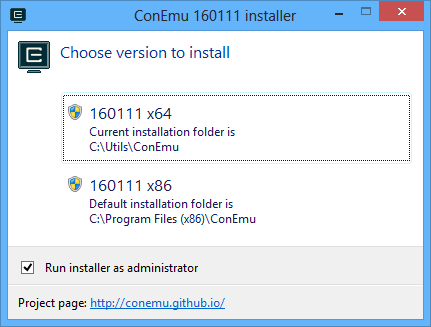
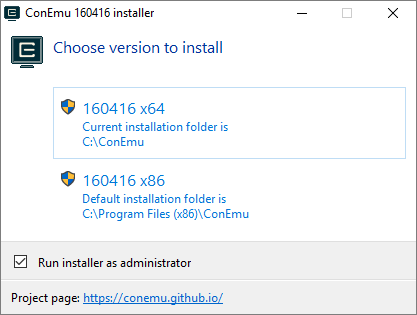
Update installer description and recommendations

Changed region(s): [[0.0, 0.0, 1.0, 1.0], [0.1247, 0.5429, 0.5923, 0.7143]]

diff --git a/en/Installation.md b/en/Installation.md
@@ -31,22 +31,27 @@ readalso:
 In general, ConEmu installation is easy.
 Just unpack or install to any folder and run `ConEmu.exe`.
 
-* <a href="#not-a-far-manager">If you are **not** a Far Manager user</a>
-* <a href="#far-manager">If you **are** a Far Manager user</a>
-* <a href="#mactype">MacType issues</a>
-* <a href="#java">Java issues</a>
+* [If you are **not** a Far Manager user](#not-a-far-manager)
+* [If you **are** a Far Manager user](#far-manager)
+  * [Far Manager macros for ConEmu](#far-macros)
+* [MSI installer](#installer)
+  * [Desktop icons](#installer-icons)
+* [MacType issues](#mactype)
+* [Java issues](#java)
 
 
-<h2 id="not-a-far-manager">If you are <strong>not</strong> a Far Manager user</h2>
+## If you are **not** a Far Manager user  {#not-a-far-manager}
 
-* Unpack all files (from appropriate `ConEmuPack.\*.7z`)
-	or install `ConEmuSetup.\*.exe` package to any folder your choice.
- 	Subfolder `plugins` (Far Manager related) is not required in your case
+* You may use either package `ConEmuPack.*.7z` or `ConEmuSetup.*.exe`, both contain identical binaries.
+  * Just unpack all files from `ConEmuPack.*.7z`;
+  * Or run installer `ConEmuSetup.*.exe` and follow MSI installation wizard steps.
+    Read more about [installer](#installer) below.
+* NB.	Subfolder `plugins` (Far Manager related) is not required in your case
   and may be deleted or unchecked in the installer.
 * Run `ConEmu.exe` or `ConEmu64.exe`.
 
 
-<h2 id="far-manager">If you <strong>are</strong> a Far Manager user</h2>
+## If you **are** a Far Manager user  {#far-manager}
 
 In general, installation for using with Far Manager does not differ.
 With the only exception:
@@ -68,20 +73,73 @@ and will be loaded by `far.exe` automatically.
 
 Otherwise you have to use `/p` switch as shown in the example above.
 
-#### Sligtly deprecated
 
-* Use of `ConEmuPack.\*.7z` and `ConEmuSetup.\*.exe` are slightly different
-  * `ConEmuPack.\*.7z`: Unpack all files to the folder, containing `far.exe`
-  * `ConEmuSetup.\*.exe`: On the `Features` page you must select destination
-	for `Far Manager plugins` to the folder, containing `far.exe`.
-* Import to the registry Far Manager macroses, related to ConEmu. Macro `*.reg`
-	files are located in `ConEmu.Addons` directory. Each macro file (`*.reg`) has
-	description in header. Just doubleclick chosen files in Windows Explorer
-	to import them.
-* By default (started without command line params), ConEmu runs `far.exe` from
-	it's home folder, or `cmd.exe` if Far Manager not found.
-	Alternatively, You may run any root command, specifying `/Cmd \<App with params\>`
-	argument in ConEmu shortcut or command line.
+#### Far Manager macros for ConEmu  {#far-macros}
+
+The subfolder `ConEmu` contains several useful macros for different Far Manager versions.
+For example, folder `Far1_reg` contains `*.reg` macros for old-school Far 1.75,
+and `Far3_lua` supplies `*.lua` macros for latest Far 3.0 branch.
+
+Just browse them and choose what you want, each macro file has description in the header.
+
+For example, `ConEmu.ShiftEnter.*`
+let you run application under cursor or typed command in the new ConEmu tab.
+Just press `Alt+Enter` to run tab in foreground and `Shift+Enter` to run in background.
+
+How to use the desired macro.
+
+* `*.lua` macro files. Standard for Far 3.0 branch. Copy the file to the `%FARPROFILE%\macros\scripts`
+  and run in Far prompt `Macro:Load`.
+* `*.fml` macro files. This requires ‘MacroLib’ plugin, please refer to its documentation.
+* `*.reg` macro files. Just double click the file to import its contents to Windows registry.
+
+If your Far version does not know `Macro:Load` command, just restart the Far to reload macros list.
+
+
+
+## MSI installer  {#installer}
+
+The installer `ConEmuSetup.*.exe` is actually a bundle for standard x32 and x64 MSI installers.
+There are not differences between them except of default installatin folder on 64-bit OS.
+
+| Bitness | Default folder on 64-bit OS |
+|:---|:---|
+| 32-bit | `C:\Program Files (x86)\ConEmu` |
+| 64-bit | `C:\Program Files\ConEmu` |
+
+But you may choose any desired folder, and `ConEmuSetup.*.exe` shows if the version
+is already installed and where. The following screenshot depicts that 64-bit ConEmu
+version was installed in the `C:\ConEmu` folder.
+
+![Choose desired version](/img/Installer1.png)
+
+Actually, there are no differences between 32-bit and 64-bit packages, both contain
+all required files to run on any Windows.
+
+Selected MSI installer is unpacked to `%TEMP%` folder and you'll face usual MSI wizard.
+Just follow usual installation steps, selecting options and pressing ‘Next’ button.
+
+
+
+#### Desktop icons  {#installer-icons}
+
+By default, the installer creates icons on the ‘Desktop’ and in the ‘Start menu’.
+And these icons will be recreated by MSI each time you update ConEmu.
+If you dislike the behavior, if you want to rename icons or remove them from ‘Desktop’,
+you shall:
+
+* Run the installer `ConEmuSetup.*.exe` changing installed features.
+
+![Change installed features](/img/Installer2.png)
+
+* Uncheck ‘Desktop’ shortcuts creation.
+
+![Disable Desktop icon creation](/img/Installer3.png)
+
+* Go to the end of MSI wizard process.
+
+After that you may create you own personalized shortcuts on the Desktop.
+
 
 
 ## MacType issues  {#mactype}

diff --git a/en/VersionComparison.md b/en/VersionComparison.md
@@ -118,7 +118,7 @@ So, You can simply unpack downloaded archive or install ConEmu to the
 [Far Manager](http://www.farmanager.com/download.php?l=en) folder
 or any other folder, if you are not using Far Manager..
 
-Download page: [http://www.fosshub.com/ConEmu.html]
+Download page: <http://www.fosshub.com/ConEmu.html>
 
 **PS**. In fact, it does not matter which version of GUI you use (ConEmu.exe or ConEmu64.exe).
 ConEmu automatically selects the required files (ConEmuHk.dll or ConEmuHk64.dll and so on)
